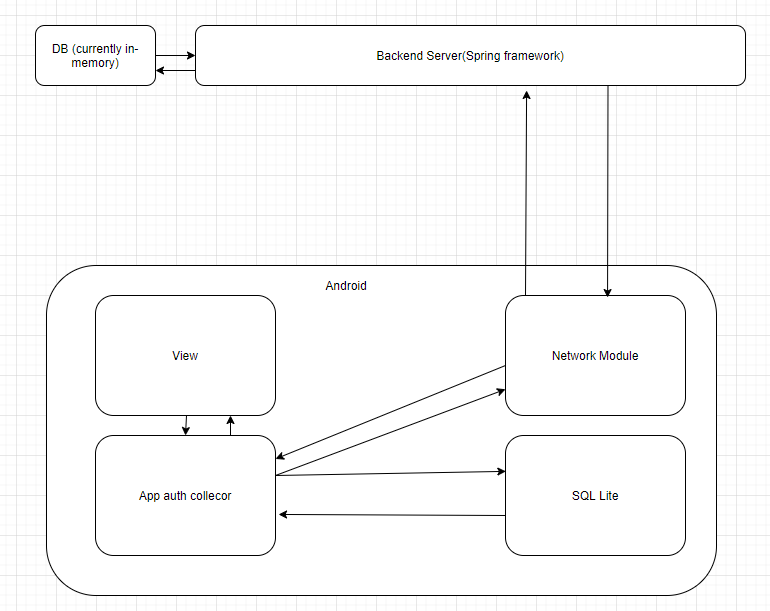
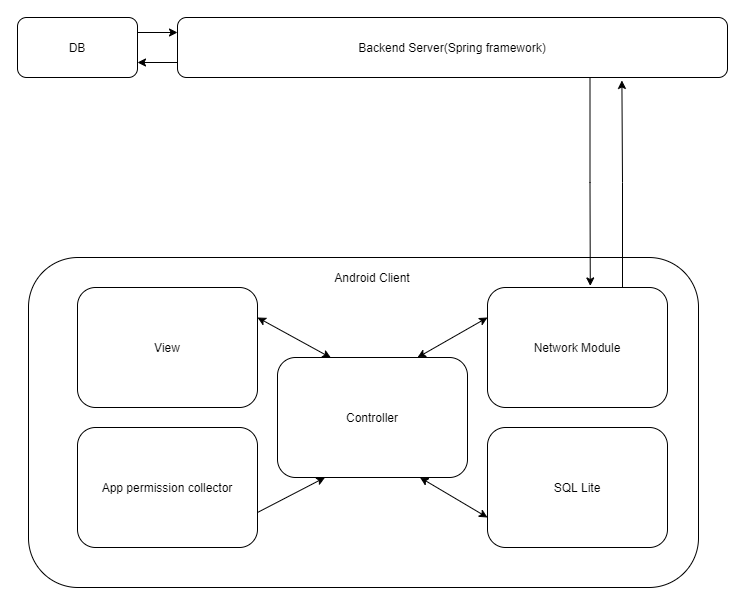
#14 논문 본문 작성

diff --git a/docs/doc.md b/docs/doc.md
@@ -1,4 +1,4 @@
-# Abstract.
+# 요약
 안드로이드 환경에서 새로운 앱을 설치하여 사용할 때, 해당 앱이 요청하는 권한들에 대한 과도한 승인은 개인 정보 유출을 비롯한 보안 문제들로 이어질 수 있다. 
 이에 대한 기존 연구는 앱들에게 이미 허용한 권한 내역을 수집하여 사용자에게 보여주는 수준인데, 앱이 과도한 권한을 요구하는가에 대한 판단은 사용자 개인에게 전적으로 의존하고 있다. 
 
@@ -8,68 +8,129 @@
 ## 핵심어(Key Words).
 안드로이드 보안(Android security), 안드로이드(Android), 권한 관리(Permission management), 모바일 프라이버시(Mobile privacy), 모바일 보안(Mobile security)
 
-# Intro.
-- 권한을 확인해서 리스트로 뽑아오는 기능
-- 앱 리스트를 서버로 보내서 밴된 기능 받아오기
-  - 몇 % 이상 밴되었는가? // 사용자 커스텀 가능
-- 리포트 구현
-  - 설치지 거절된 권한 수집
-  - 사용자가 앱을 통하여 권한을 해제했을 경우 서버로 전송
-- 백앤드 서버 구현
-  - 리포트 된 권한이 일정 비율을 넘어갈 경우 과도한 권한이라고 판단
+# 서론
+스마트폰이 많이 사용되는 만큼 모바일 앱에 관련된 보안 문제 또한 증가하고 있다. 대부분의 안드로이드 앱은 설치 또는 실행 시 사용자에게 팝업창을 띄워 권한 허용 여부를 물으며 앱의 기능을 수행하기 위해 필요한 권한을 요구한다. 또한, 해당 앱이 요구하는 대부분의 권한을 허용해야 앱의 원활한 기능 사용이 가능하다. 이러한 부분 때문에 대부분의 사용자들은 해당 권한이 앱에 필요한 권한인지 주의 깊게 확인하지 않고 허용하는 경우가 많다[1].
 
-# Reference
-1) 배경륜, 이연재, 김의연, 태규빈, 김형종, 이해영. (2018). 과도한 권한을 요구하는 안드로이드 앱 탐지. 한국컴퓨터정보학회 동계학술대회 논문집, 26(1), 79-80.
+따라서 이를 악용한 과도한 권한을 요구하는 앱들이 배포될 수 있고 이는 개인 정보 유출을 비롯한 보안 문제들로 이어질 수 있다. 이에 대해 앱들이 요구한 권한 내역을 수집하여 관리하는 시스템에 관한 연구들이 진행해왔지만, 앱이 과도한 권한을 요구하는지에 대한 판단과 권한 허용에 대한 관리는 사용자 개인에게 전적으로 의존하고 있다[2]. 따라서 본 논문에서는 이러한 한계를 개선하기 위해 안드로이드 앱의 요구 권한 내역 탐지와 더불어 사용자의 권한 별 허용 비율을 관리하는 시스템을 제안하고자 한다. 이를 front end에서 android native, backend에서는 spring framework를 활용하여 구현했다.
 
-# 설계
+# 본론
+
+## 용어 정리
+
+- App permission status list
+```
+[
+  {
+    "AppId": "",
+    "permissionId": "",
+    "permissionStatus": "", // on, off
+    "isAuto": "", // true, false
+  },
+  ...
+]
+```
+- Permission status
+  - (manually) on
+    - 사용자가 의사를 가지고 권한을 활성화한 경우
+  - (manually) off
+    - 사용자가 의사를 가지고 권한을 비활성화한 경우
+  - (auto) on/off
+    - 사전에 설정한 목표 권한금지비율에 따라 자동으로 설정된다.
+    - 앱의 취지상 로컬 데이터베이스에 없던 앱의 권한이 허가로 되어있을 경우, 이는 auto on으로 본다.
+
+- 권한금지비율 (Banned permission ratio)
+전체 어플리케이션 이용자 중, 해당 앱을 사용자가 직접 금지한 비율을 뜻한다.
+예를 들어 어플리케이션 A가 있고, 앱 A가 권한 b를 요구했을 때 전체 사용자중 20%는 b를 허가하고, 60%가 auto, 20%가 권한 거부를 했다면, b의 권한금지비율은 20%가 된다.
+
+- 목표권한금지비율 (Target banned permission ratio)
+목표가 되는 권한금지비율이다. 에를 들어, 목표권한금지비율이 50%이고 앱 A의 권한 b, c의 권한금지비율이 각각 20%, 60%라면 c는 비활성화 된다.
+
+## 설계
 ![architecture1](./architecture1.png)
 
-## Backend(spring framework)
+### Frontend (Android client)
+- Controller
+  - 사용 중인 앱의 권한 수집 및 수정, 사용자에 의한 권한 변경에 대응하는 전체 로직을 제어한다.
+- App permission collector
+  - Android API를 활용하여 설치되어 있는 Application list와 permission list, permission on/off list를 모아온다.
+- Network module
+  - Get app-permission-status-list-on-tbpr
+    Permission status가 auto인 permission들에 대해 사전에 설정한 목표권한금지비율에 따라 on/off 여부를 가져온다.
+  - Post app-permission-status-list
+    Controller에서 도출한 App permission status list를 백엔드서버에 업데이트한다.
+- View
+  - Target banned permission ratio setting
+  - app list
+    - app permission list
+      - set permission status   
+- Local DB (SQL Lite)
+  - Record
+    - appId      
+    - permissionId
+    - permissionStatus
 
-### Report
-- client Id
-  - 단순 앱 고유 식별자
-  - Report가 업데이트 된 경우, 중복을 배제하기 위해서.
-- app list
-- banned auth per apps
-
-### Currently banned auth via app.
-- query
-  - parameters
-    - appId
-    - banned ratio
-
-## Android client
-
-### View
-- banned ratio setting
-- app list
-- app auth list
-- on/off auth
-  - status
-    - manually on
-      - 사용자가 본 앱을 통해 활성화한 경우
-    - manually off
-      - 사용자가 앱을 설치할 때 거부한 경우
-      - 사용자가 본 앱을 통해 비활성화 한 경우
-    - auto
-      - 설정한 banned ratio에 따라 자동 동기화 (default)
-
-### App auth collector
-- App auth collect
-- DB(sql lite)에 있는 구 app auth status를 불러와서 비교
-- auto 상태(manually on/off 되어있는 권한을 제외)에 해당하는 권한 리스트를 네트워크 모듈에 요구
-- manually setting된 권한 변경사항을 네트워크 모듈에 업데이트
-- 모든 동기화가 끝나고 현재 상태를 디비에 저장
-
-### 네트워크 모듈
-- collector 에서 모아온 앱들의 banned auth by ratio를 가져옴 
-- collector에서 현재 상황을 리포트한 것을 백엔드서버에 업데이트
+### Backend (Spring Framework)
+- Rest API controller
+- Model
+  - InstanceId [3]
+  - appId
+  - permissionId
+  - permissionStatus
+- DB
 
 
-# 구현
-## Todo
+## 사용 중인 앱의 권한 수집 및 수정
+![workflow1](./workflow1.png)
 
-# Future work.
-과도한 권한을 판단하는 기준이 지나치게 휴리스틱임.
-이걸 멋있게 돌아가게 하는 알고리즘을 추가하면 더 좋은 프로젝트가 될 듯 (a.k.a ML)
+- Frontend 에서 android API를 이용하여 디바이스에 설치된 모든 앱의 권한과 권한 허용 여부를 가져온다.
+- Local DB(sql lite)에 있는 기존 app permission status list를 불러온다.
+
+아래 로직을 통해서 현재 설정되어 있는 권한이 본 앱의 자동화된 관리로 업데이트 된 것인지, 사용자가 직접 지정한 것인지 판별한다.
+
+|LDB\Collector|on|off|
+|:-----:|---|---|
+|aOn|aOn|mOff|
+|aOff|mOn|aOff|
+|mOn|mOn|mOff|
+|mOff|mOn|mOff|
+|null|aOn|mOff|
+
+(LDB: local DB, aOn: auto on, aOff: auto off, mOn: manually on, mOff: manually off, null: not exist)
+![workflow2](./workflow2.png)
+- 권한 변경사항을 네트워크 모듈을 통해 서버에 업데이트한다.
+- auto 상태를 업데이트하기 위해서 Target banned permission ratio 따라 on/off 권한 리스트를 네트워크 모듈에 요구한다.
+- 서버에서 가져온 app permission status list on tbpr에 따라 디바이스의 각 앱 권한들을 변경한다.
+- 현재 상태를 Local DB에 저장한다.
+
+
+## 사용자에 의한 권한 변경
+
+![workflow3](./workflow3.png)
+
+DB(sql lite)에 있는 기존 app permission status list를 불러온다.
+
+### Manually on/off -> auto의 경우
+- 권한 변경사항을 네트워크 모듈을 통해 서버에 업데이트한다.
+- auto 상태를 업데이트하기 위해서 Target banned permission ratio 따라 on/off 권한 리스트를 네트워크 모듈에 요구한다.
+- 서버에서 가져온 app permission status list on tbpr에 따라 디바이스의 각 앱 권한들을 변경한다.
+- 현재 상태를 Local DB에 저장한다.
+
+### auto -> Manually on/off 의 경우
+- 권한 변경사항을 네트워크 모듈을 통해 서버에 업데이트한다.
+- 변경사항에 따라 앱 권한을 변경한다.
+- 현재 상태를 Local DB에 저장한다.
+
+
+# 결론
+본 논문에서는 안드로이드 앱의 권한 허용 내역 탐지와 더불어 사용자의 권한별 허용 비율을 관리하는 시스템을 제안하고 프로토타입을 구현하였다. 이 시스템은 기존 연구와 달리 통계적 결과를 바탕으로 불필요한 권한의 사용을 자동으로 방지한다는 점에서 과도한 권한의 허용을 관리하는 새로운 모델을 제안했다는 점에서 의의가 있고 이에 따른 모바일 프라이버시 강화를 기대할 수 있다. 
+
+하지만, 불필요한 권한을 판단하는 통계적 결과는 사람의 판단에 의한 것으로 해당 시스템의 이용자 수가 충분하지 않으면 통계의 신뢰도가 떨어진다는 한계가 있어 이를 개선할 필요가 있다.
+따라서 향후 사람이 개입되지 않고 정확하게 '이것이 과도한 권한인가'에 대한 판단을 하는 알고리즘을 머신러닝을 통해서 구현하고 추가하면 더 좋은 연구가 될 수 있을 것 같다.
+
+# 참고문헌
+- [1] A.P. Felt et al, “Android permissions: user attention,comprehension, and behavior,” Proc. of SOUPS ’12, July 2012.
+- [2] 배경륜, 이연재, 김의연, 태규빈, 김형종, 이해영. (2018). 과도한 권한을 요구하는 안드로이드 앱 탐지. 한국컴퓨터정보학회 동계학술대회 논문집, 26(1), 79-80.
+- [3] https://firebase.google.com/support/privacy/manage-iids?hl=ko
+- [4] Permission Explorer, https://github.com/ruippeixotog/permission-explorer
+- [] CWE-250: Execution with Unnecessary Privileges
+- [] 유홍렬, 권태경. (2014). 안드로이드 권한의 위험을 판단하기 위한 평가척도에 관한 연구. 한국정보과학회 학술발표논문집, (), 1009-1011.
